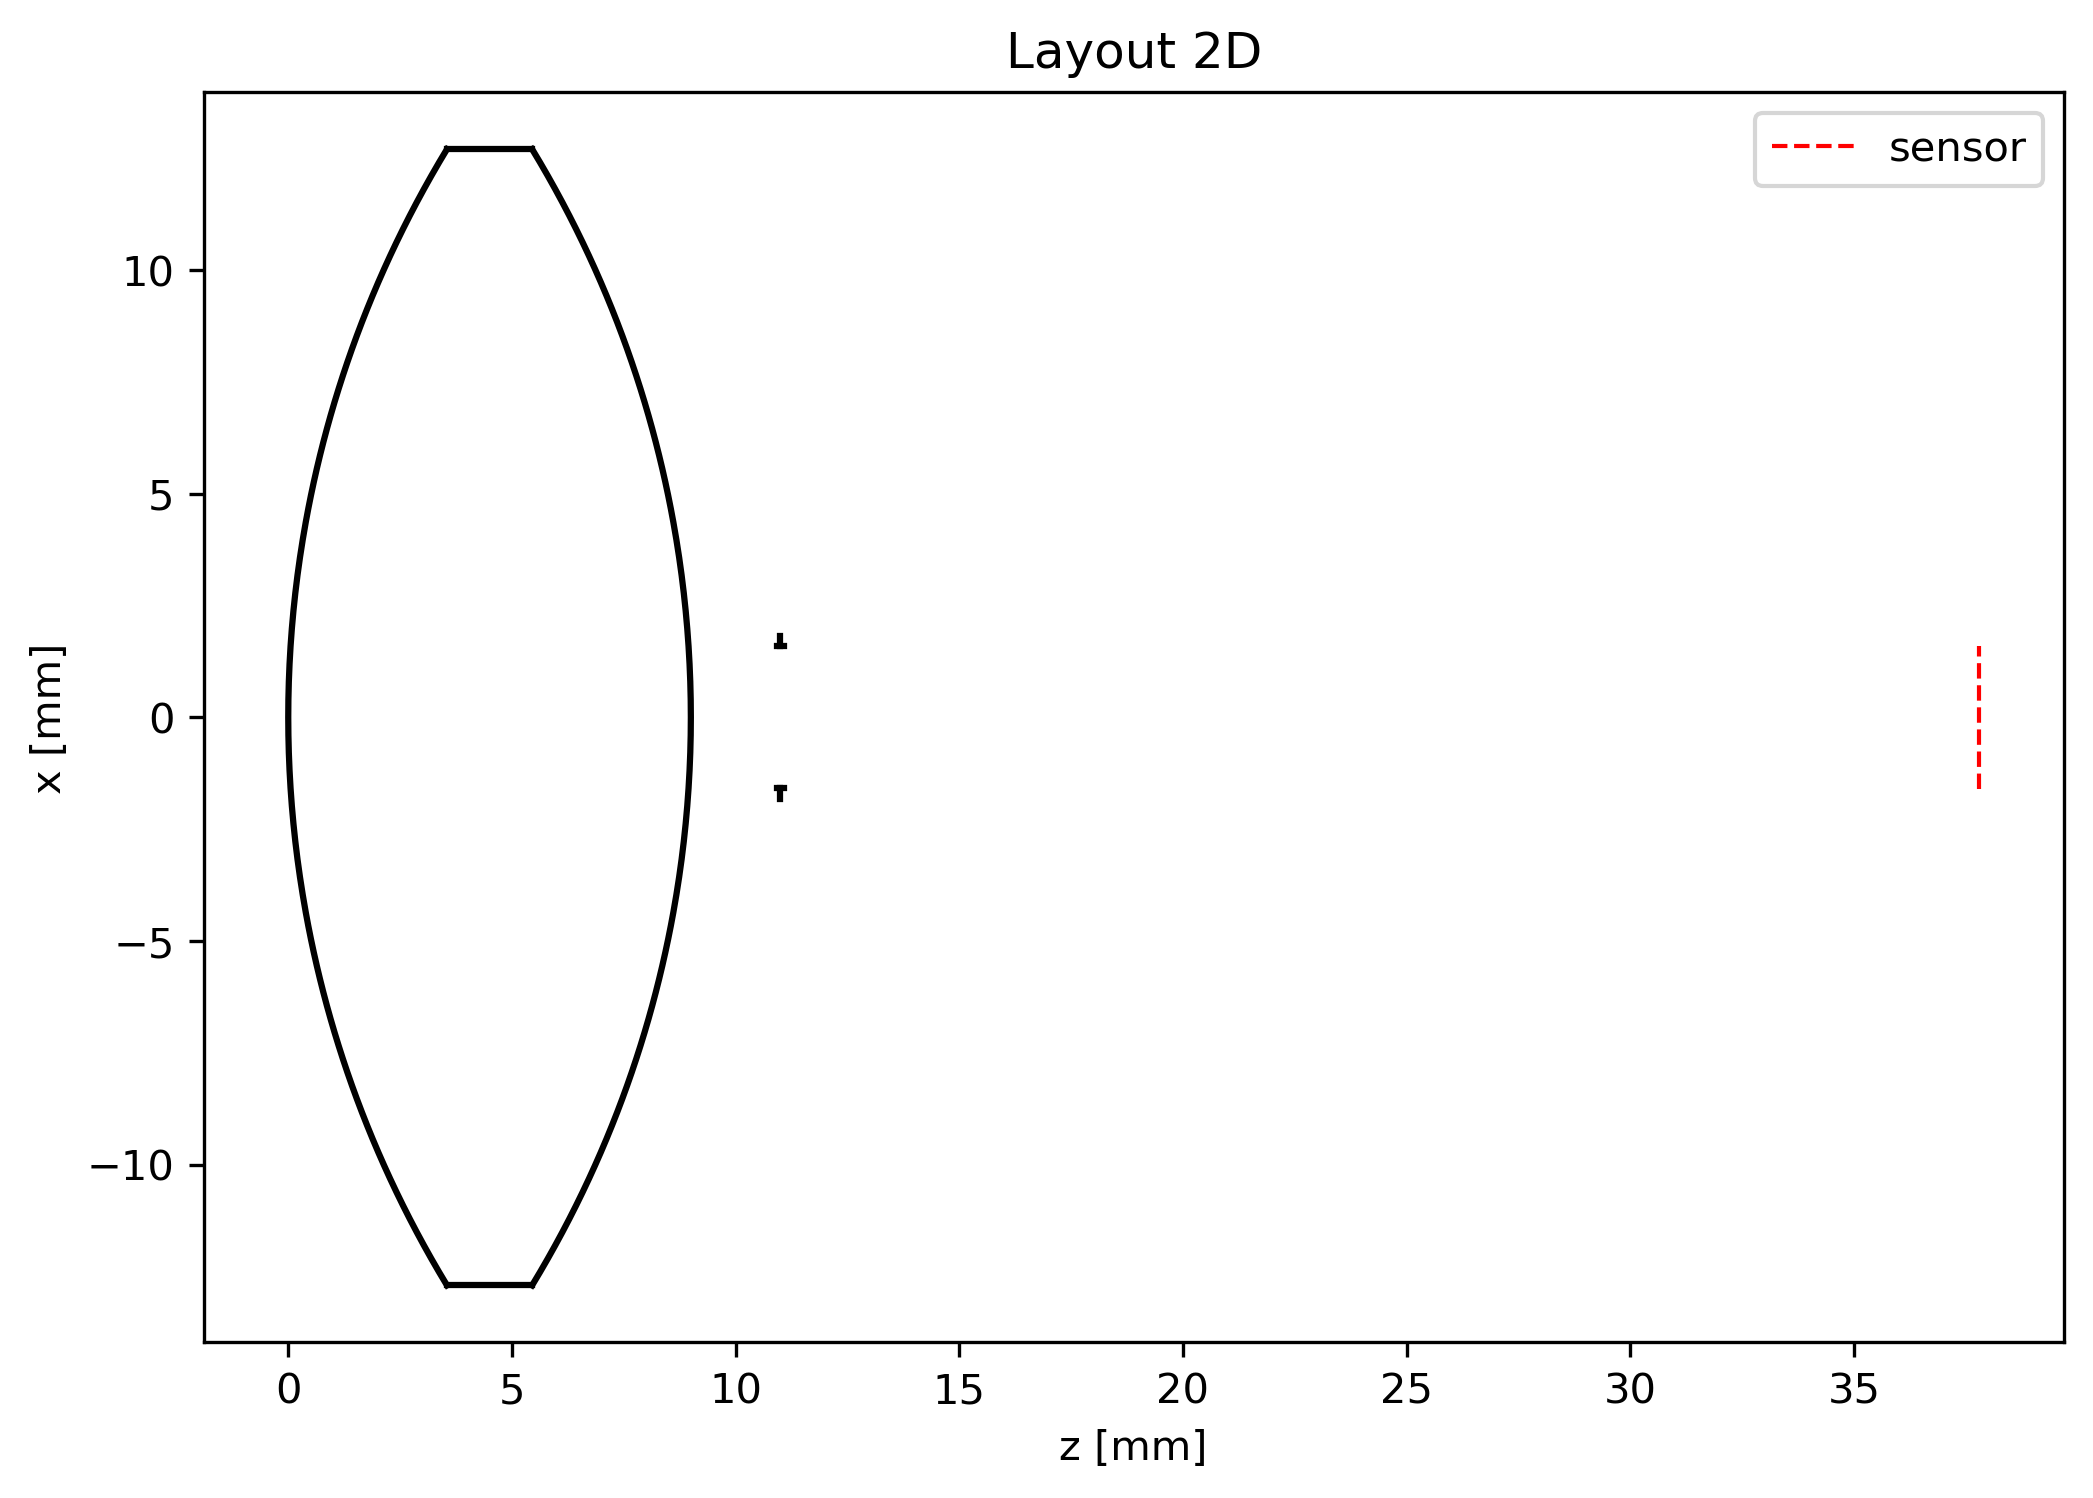
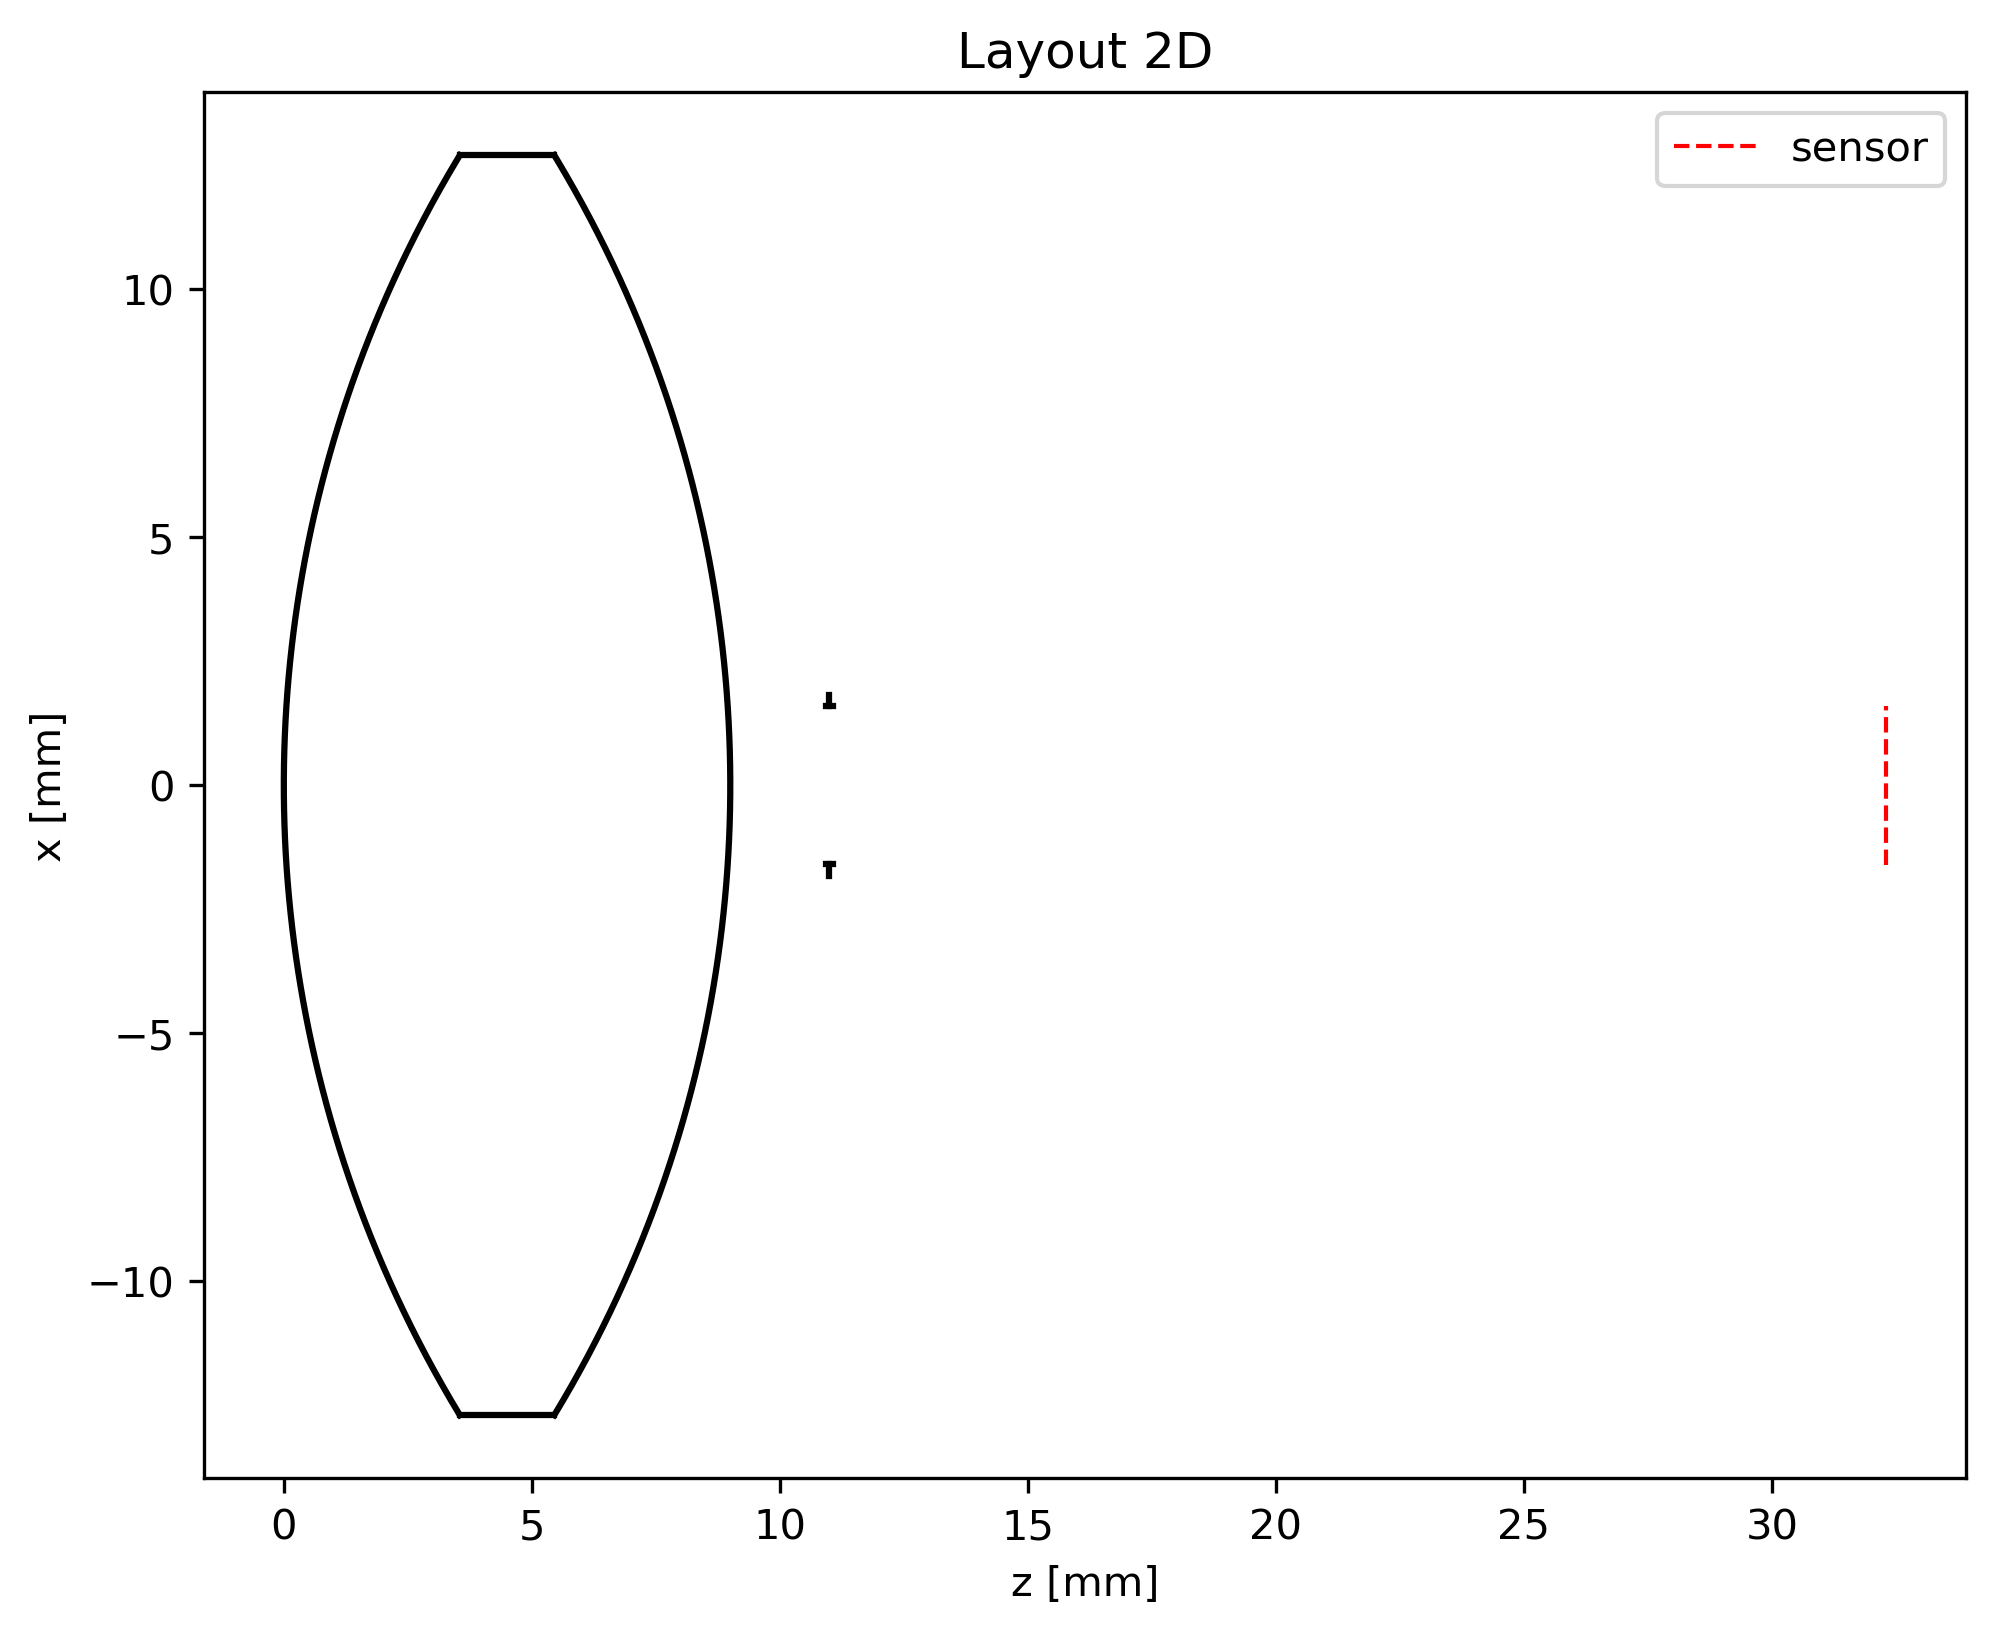
small bugs about lens assign fixed

diff --git a/main.py b/main.py
@@ -23,9 +23,10 @@ def build_lens(
     """
     Geometry:
       S1: AIR -> BK7 at z=0
-      S2: BK7 -> AIR at z=T
+      S2: BK7 -> AIR at z=T, radius LD
       A : optional AIR–AIR stop at z = T + stop_after_s2_mm, radius = OD/2
-      Sensor plane z = T + D2 (used only for intersection)
+      Sensor plane:
+      z = T + stop_after_s2_mm + D2 (used only for intersection)
     """
     lens = Lensgroup(device=device, pixel_size=pixel_size_mm, film_size=film_M)
 
@@ -49,7 +50,7 @@ def build_lens(
 
     lens.surfaces = surfaces
     lens.materials = materials
-    lens.d_sensor = float(T) + float(D2)
+    lens.d_sensor = float(T) + float(stop_after_s2_mm) + float(D2)
     lens.aperture_ind = aperture_ind
     lens._sync()
     return lens
@@ -75,8 +76,8 @@ def run_first(args) -> None:
     lens.plot_raytraces_world(oss=oss, ax=ax, show=False, fname = out_dir / f"{args.prefix}_rays.png")
     I = lens.render(ray, irr=1.0)
     lens.plot_psf(I, show=False, fname=out_dir / f"{args.prefix}_psf.png")
-    dis = lens.best_focus_D2( D_mm = args.D, lam=500.0, N=5000, D2_guess=None, span=5.0, steps=21, use_spot=False)
-        
+    dis = lens.best_focus_D2( D_mm = args.D, lam=500.0, N=5000, D2_guess=None, span=5.0, steps=21, use_spot=True) - args.stop_after_s2_mm
+
     
 # --------------------------
 # Argument parsing
@@ -91,7 +92,7 @@ def parse_args():
     p.add_argument("--R2", type=float, default=-24.5,help="Back radius R2 [mm] (convex to sensor often negative)")
     p.add_argument("--LD", type=float, default=25.4, help="Diameter of the lens [mm]")
     p.add_argument("--OD", type=float, default=3.175, help="Aperture diameter OD [mm]")
-    p.add_argument("--D2", type=float, default=23.8, help="S2 to sensor distance [mm]")
+    p.add_argument("--D2", type=float, default=21.3, help="Aperture to sensor distance [mm]")
 
     # Stop
     p.add_argument("--stop_after_s2_mm", type=float, default=2.0, help="Stop position after S2 [mm]")

diff --git a/mlrt/optics.py b/mlrt/optics.py
@@ -337,7 +337,7 @@ class Lensgroup(PrettyPrinter):
         if D2_guess is None:
             D2_guess = self.d_sensor - z2
 
-        import numpy as np, torch
+        import numpy as np
         grid = np.linspace(D2_guess - span, D2_guess + span, steps)
         best = (float("inf"), grid[0])
 
@@ -369,7 +369,8 @@ class Lensgroup(PrettyPrinter):
             if metric < best[0]:
                 best = (metric, D2)
 
-        return best[1]
+        return best[1] 
+    
     # psf metrics 
     def psf_metrics(self, I:torch.Tensor) -> dict:
         """
